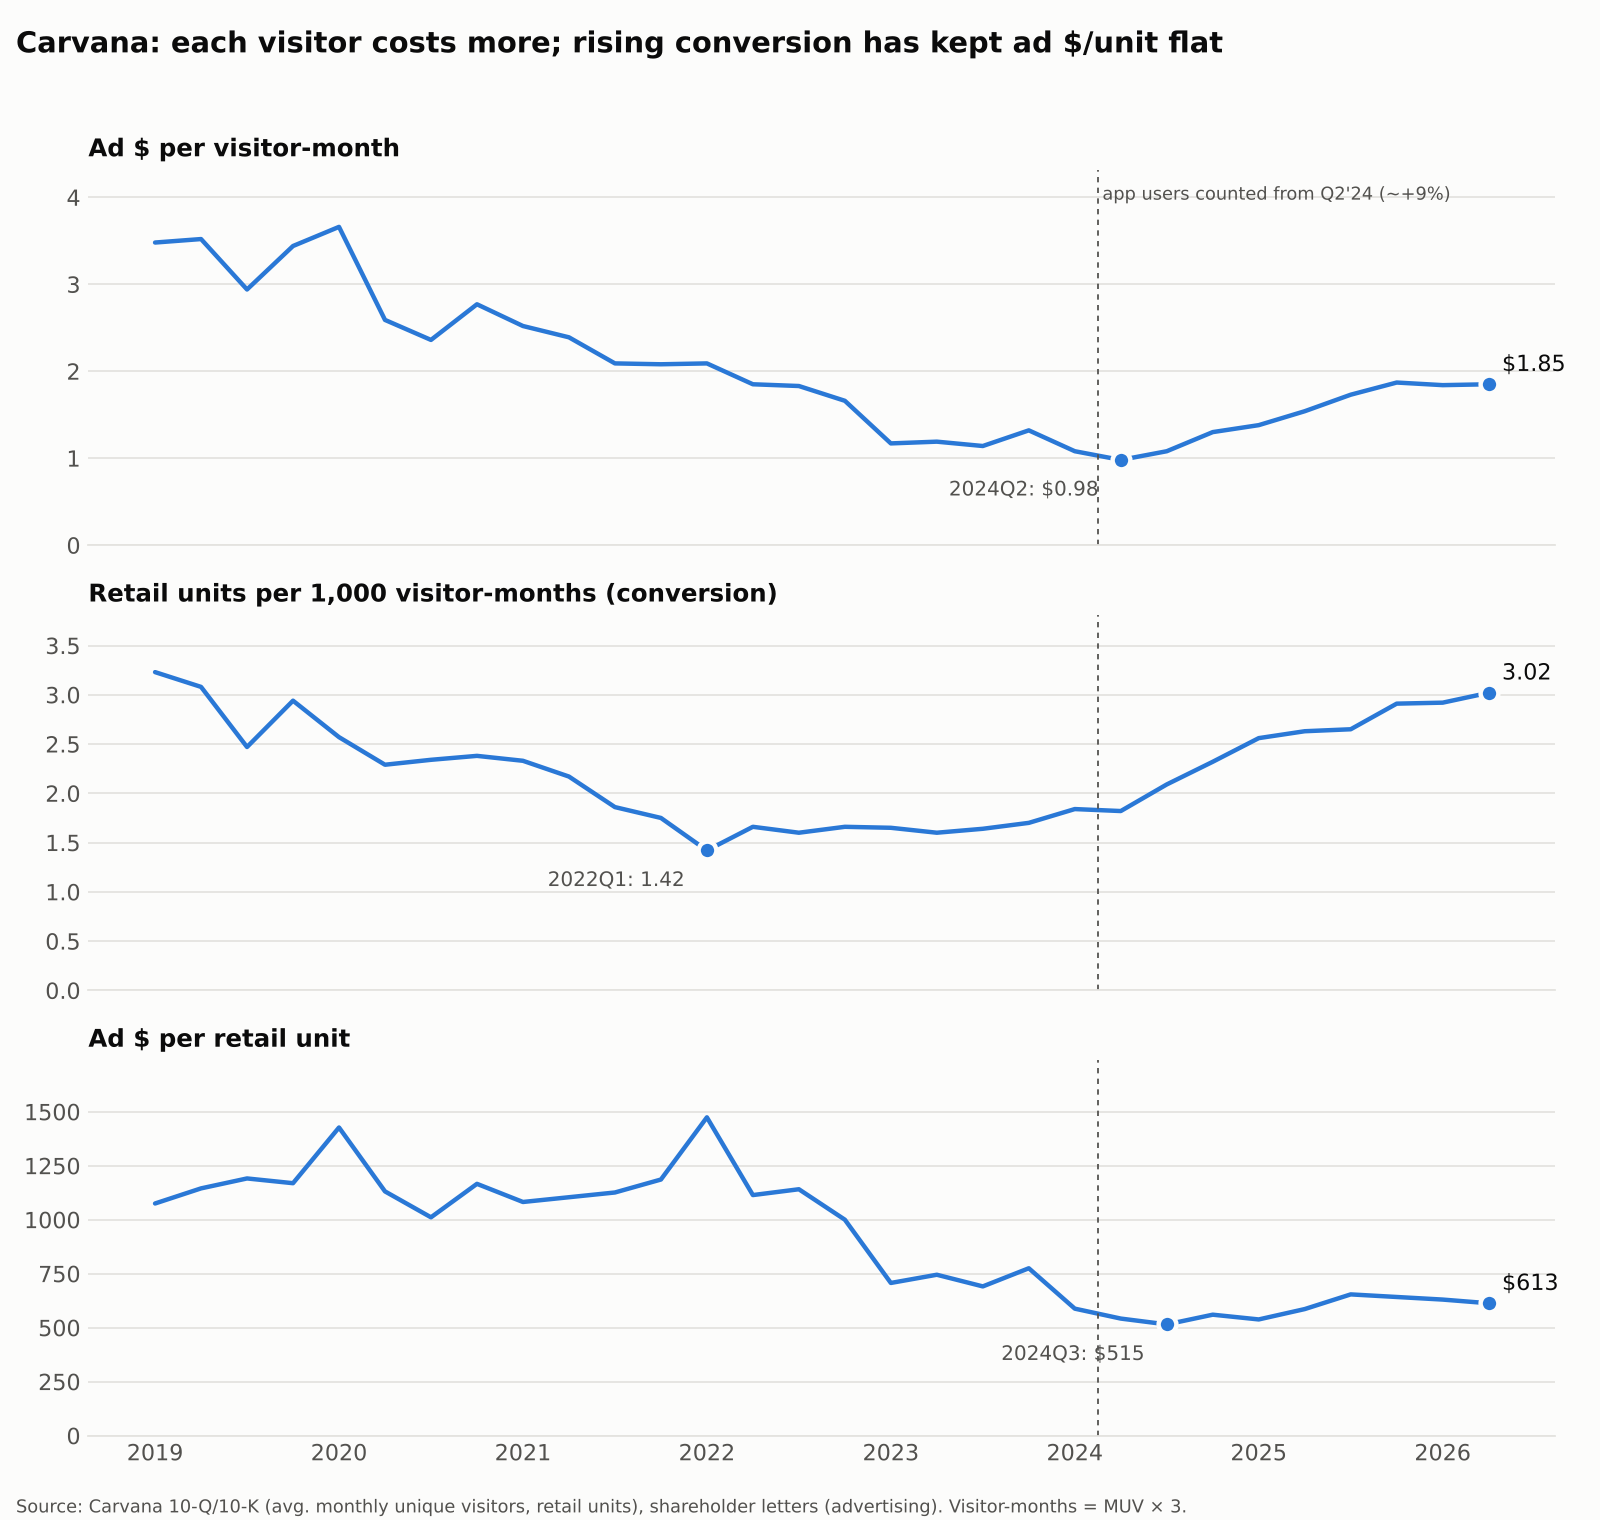
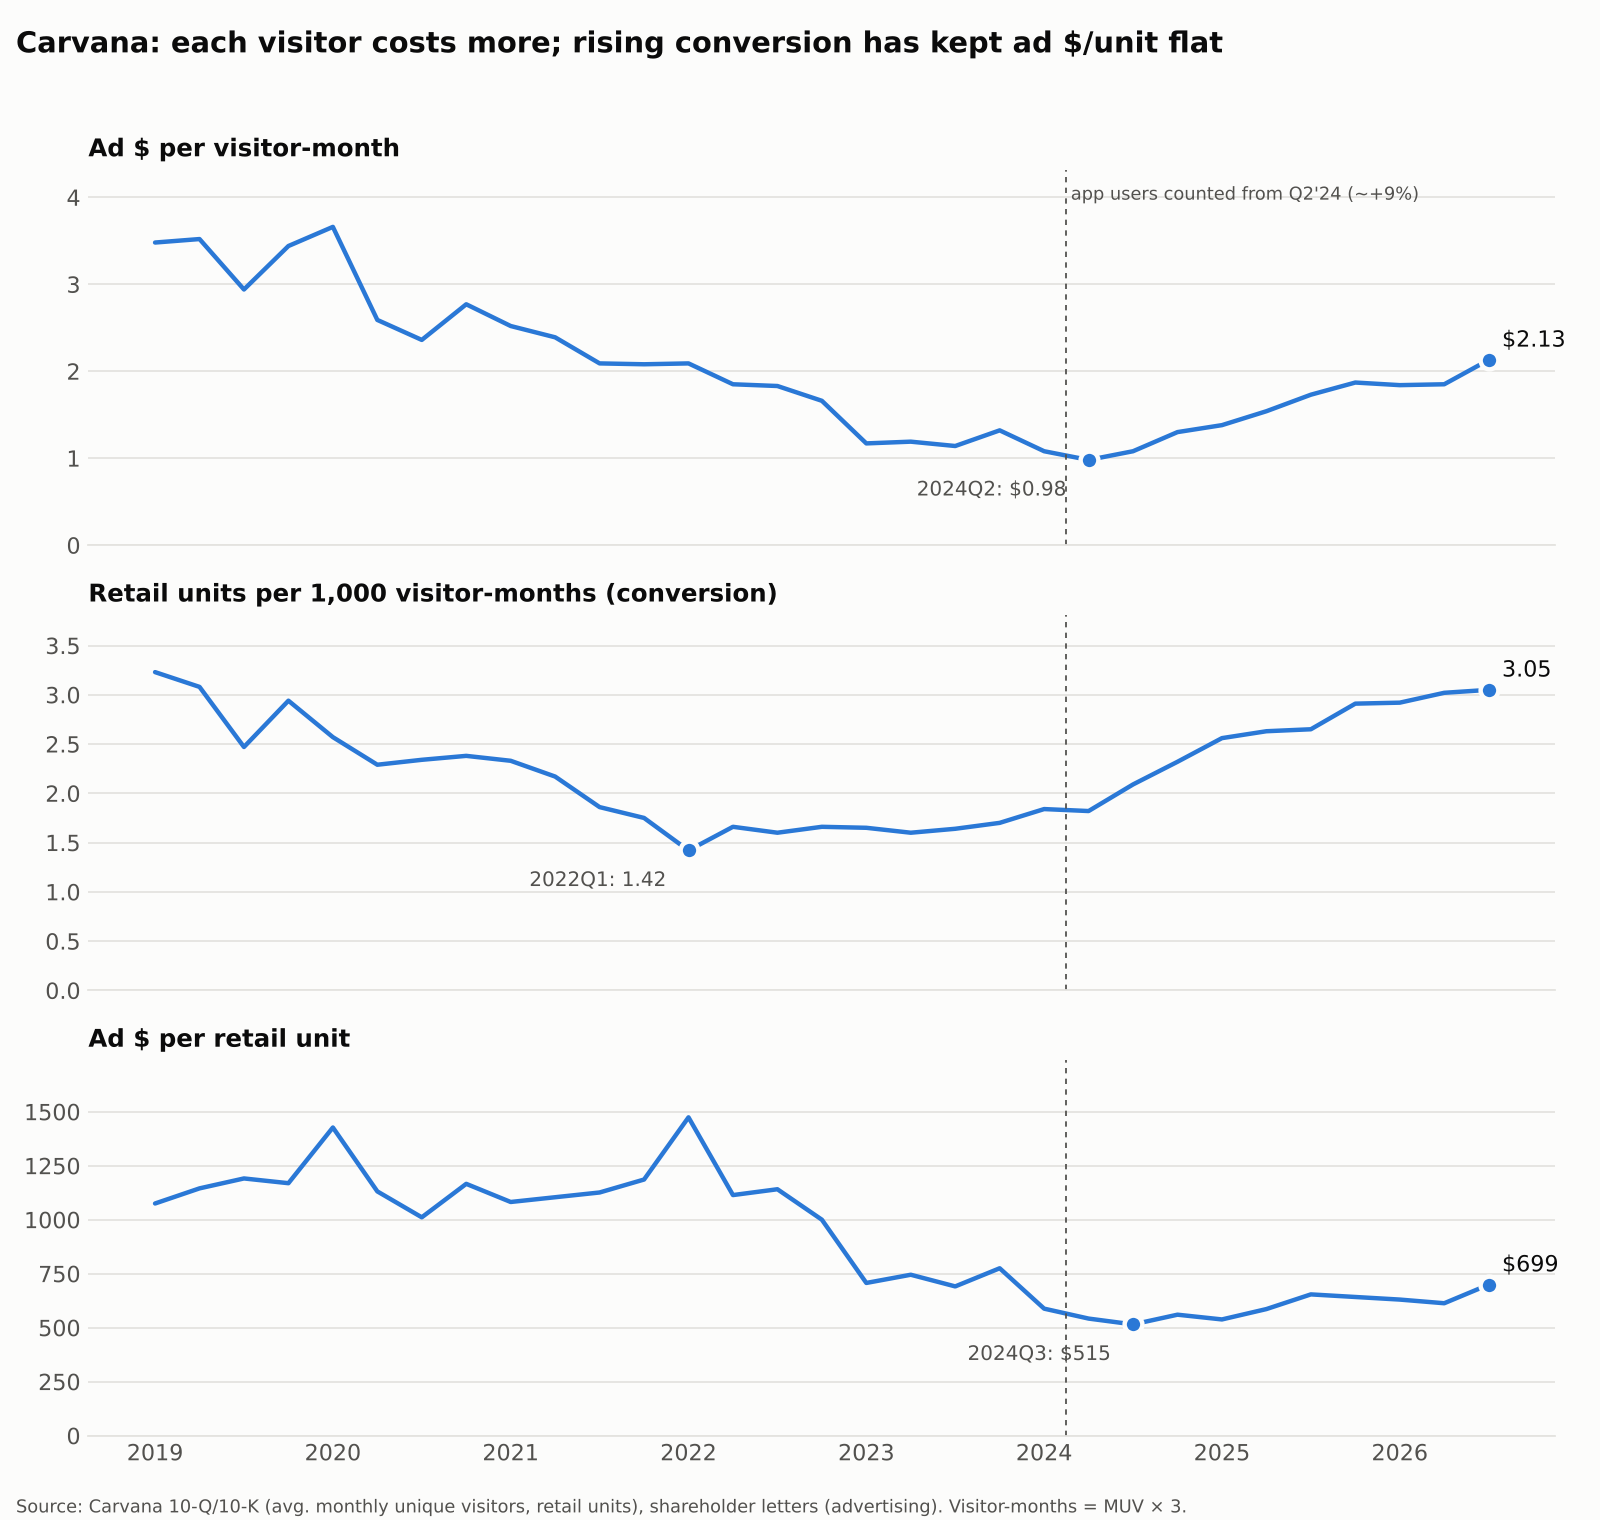
CVNA memo: Q3'26 addendum (ad $/unit $699, cost per visitor $2.13), update data and chart
Claude-Session: https://claude.ai/code/session_01FnsH8rVP9ADdWjEq72UJxK

diff --git a/cvna/top_of_funnel_memo.md b/cvna/top_of_funnel_memo.md
@@ -7,6 +7,57 @@ Labels: **[D]** = sourced data, **[I]** = our inference. Full ad-spend table: `c
 
 > Top-of-funnel competition from entrants like Amazon Autos, combined with user migration from Google search to LLMs (seemingly less favorable to CVNA than to CarMax and local dealers), means CVNA must grow advertising at or above revenue growth, limiting operating leverage.
 
+## Q3'26 addendum (reported 2026-10-28 after close)
+
+Sources: [shareholder letter](https://www.sec.gov/Archives/edgar/data/1690820/000169082026000066/ex99_1q32026.htm), [10-Q](https://www.sec.gov/Archives/edgar/data/1690820/000169082026000067/cvna-20260930.htm). [D] unless marked.
+
+| | Q3'25 | Q3'26 | Change |
+|---|---|---|---|
+| Retail units | 155,941 | 217,385 | +39.4% |
+| Revenue | $5.65B | $8.04B | +42.4% |
+| Advertising | $102M | **$152M** | **+49%** |
+| **Ad $ / retail unit** | $654 | **$699** | **+7%**; 6th straight YoY rise; highest since Q4'23 |
+| Marginal ad $ / incremental unit [I] | | **~$814** | (+$50M ÷ +61.4k units) |
+| Avg. monthly unique visitors | 19.6M | 23.8M | +21.2% |
+| Units per 1k visitor-months | 2.65 | 3.05 | Q2'26 was 3.02, so roughly flat sequentially |
+| **Ad $ / visitor-month** | $1.73 | **$2.13** | **+23%**; highest since Q3'22 |
+| Retail GPU (GAAP) | $3,456 | $3,556 | +$100 |
+| Other GPU (GAAP; mostly loan sales) | $3,040 | $2,733 | −$307 |
+| Total GPU (GAAP) | $7,362 | $6,997 | −$365 |
+| Adj. EBITDA (margin) | $637M (11.3%) | $800M (10.0%) | −130 bp |
+| Operating income (margin) | $552M (9.8%) | $714M (8.9%) | −90 bp |
+
+**What Q3 says about the thesis [I]:**
+1. **The predicted pattern showed up.**
+   - Conversion is plateauing at ~3.0 units per 1k visitor-months, the 2019 ceiling (3.02 → 3.05 QoQ).
+   - Cost per visitor stepped up again (+23% YoY, +15% QoQ).
+   - So ad $/unit turned up: $613 in Q2 → $699 in Q3.
+   - This is the first quarter where better conversion did not offset higher cost per visitor.
+2. **Traffic is not shrinking.** Visitors grew 21%, so LLMs are not visibly draining Carvana's top of funnel. Carvana is *paying more per visitor* to keep it growing. That fits "advertising grows ≥ units", but nothing in the filing ties it to LLMs or Amazon.
+3. **The margin-bridge problem got bigger.**
+   - Ad $/unit is now ~$325 above the ~$375 "mature market" level the 13.5% target relies on. That gap is ~0.9 pt of margin at ~$37k revenue per unit.
+   - Management is retiring the adj. EBITDA framing in favor of a 12.5% GAAP *operating* margin target for 2030–35, and will stop giving quarterly/annual outlooks from Q4'26.
+4. **Profit per car is falling via finance, not retail.**
+   - Other GPU −$307 YoY: loan rates were cut by >100 bp vs benchmarks, and gain on loan sales rose only +15% vs units +39%.
+   - Management cites a ~$200/unit hit from fuel prices and benchmark rates.
+   - This ties the top-of-funnel thesis to Tab 1's variant view: Carvana is buying growth with both ads and loan pricing.
+
+**Management commentary [D]:**
+- No mention of ChatGPT, LLMs, Google search or Amazon.
+- On AI: AI tools let more customers buy without an advocate, which "reduced average calls per sale and driven higher conversion rates and Net Promoter Scores."
+- On advertising: "investments in advertising and new campaigns to expand our reach and educate customers."
+- On competition: "industry was once again approximately flat… our growth is coming from market share gains."
+- Retail marketplace partner units were a lower share of the total, which raised revenue per unit.
+- Other: inventory $3.46B (+44% vs YE25); 21 integrated ADESA sites.
+
+**Questions for the call / IR:**
+- How much of the Q3 advertising step-up was brand/TV vs performance/search?
+- Any change in paid-search CPCs or Google vehicle-ads eligibility (the Business Profile issue)?
+- Who is the retail marketplace partner?
+- Any plans for ChatGPT / AI Mode distribution?
+
+---
+
 ## Bottom line
 
 | Sub-claim | Verdict | Key evidence |
